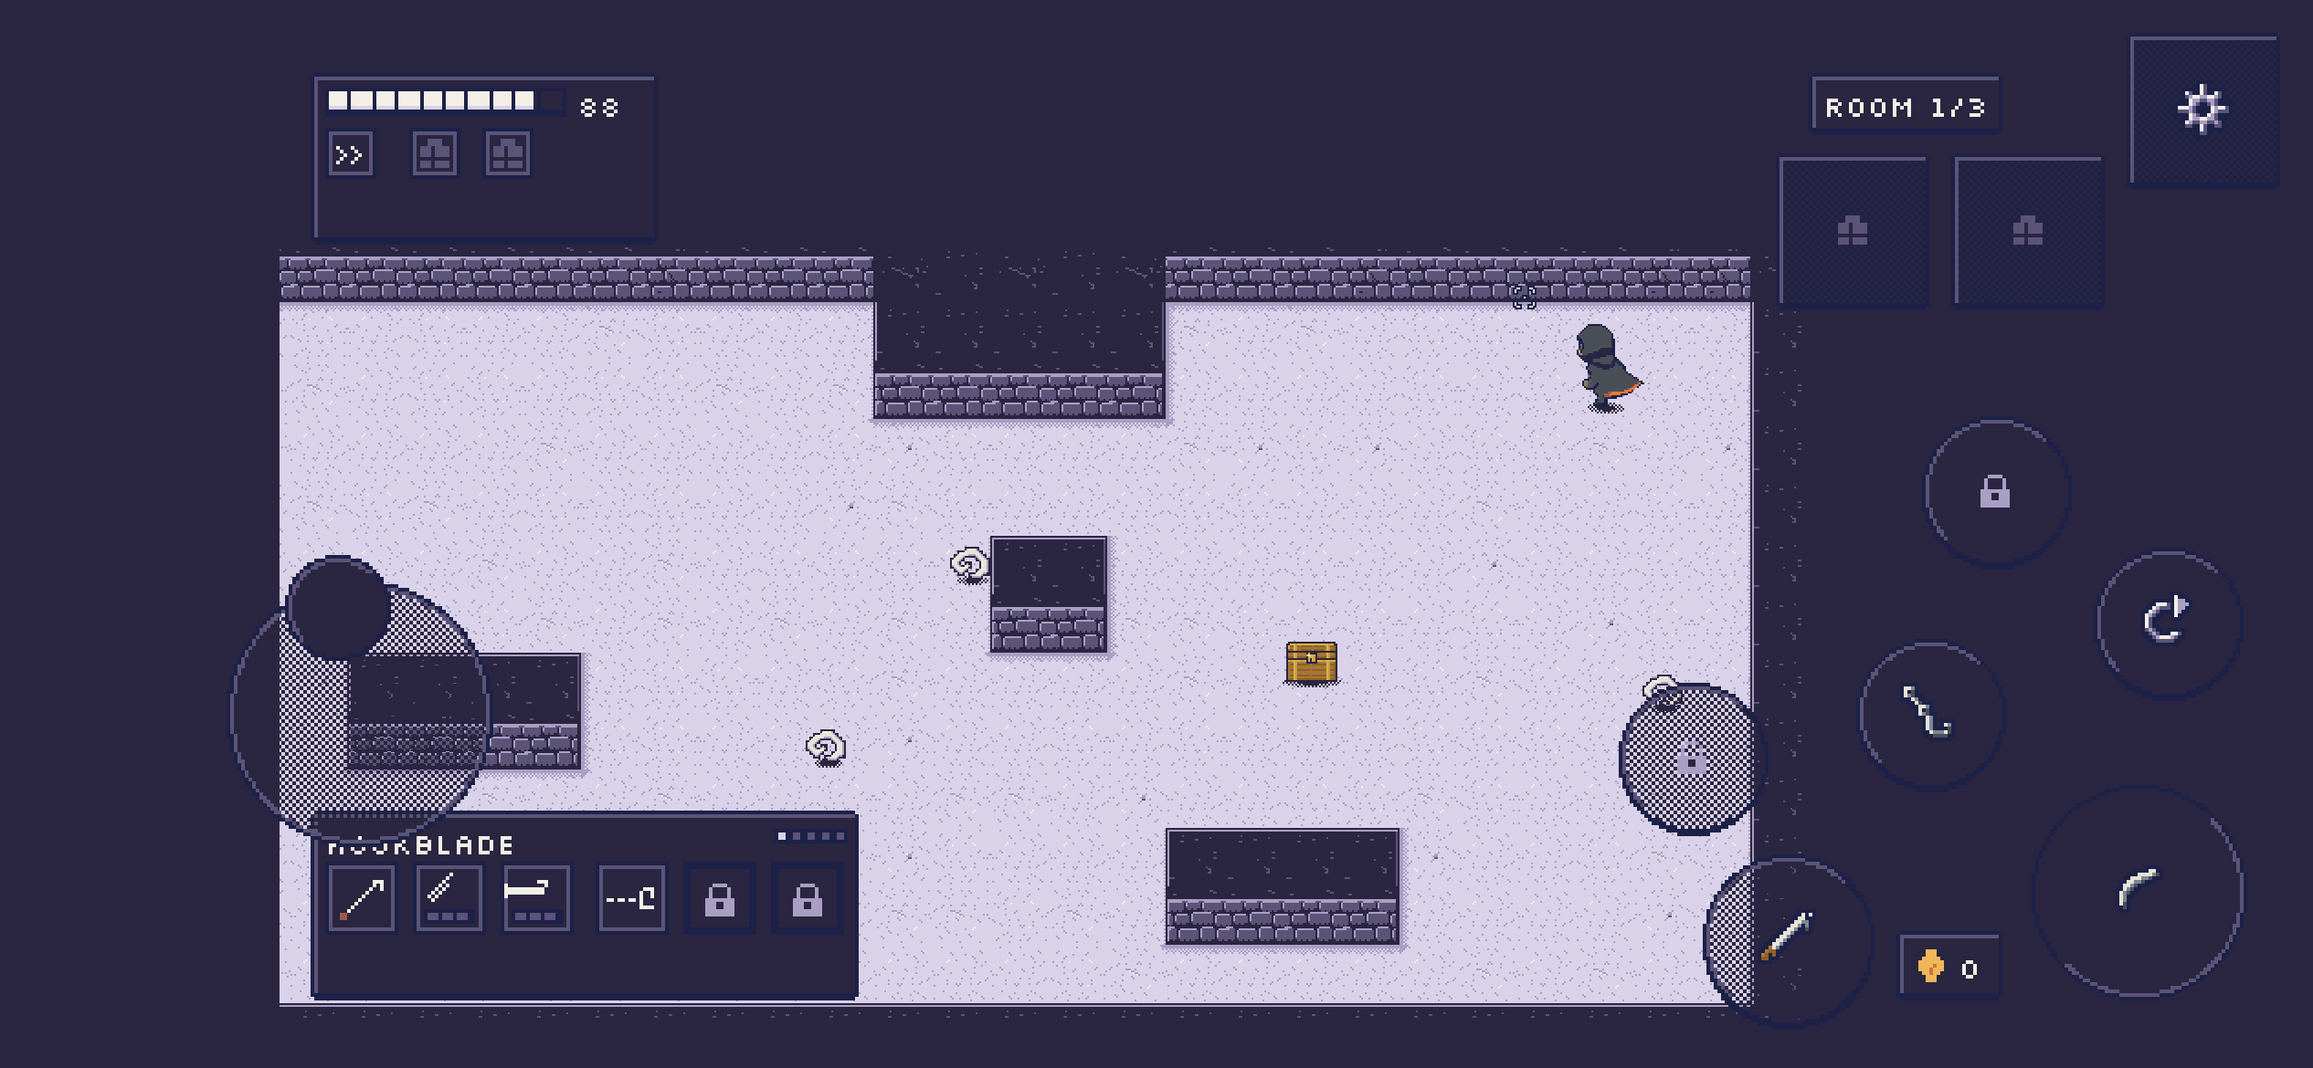
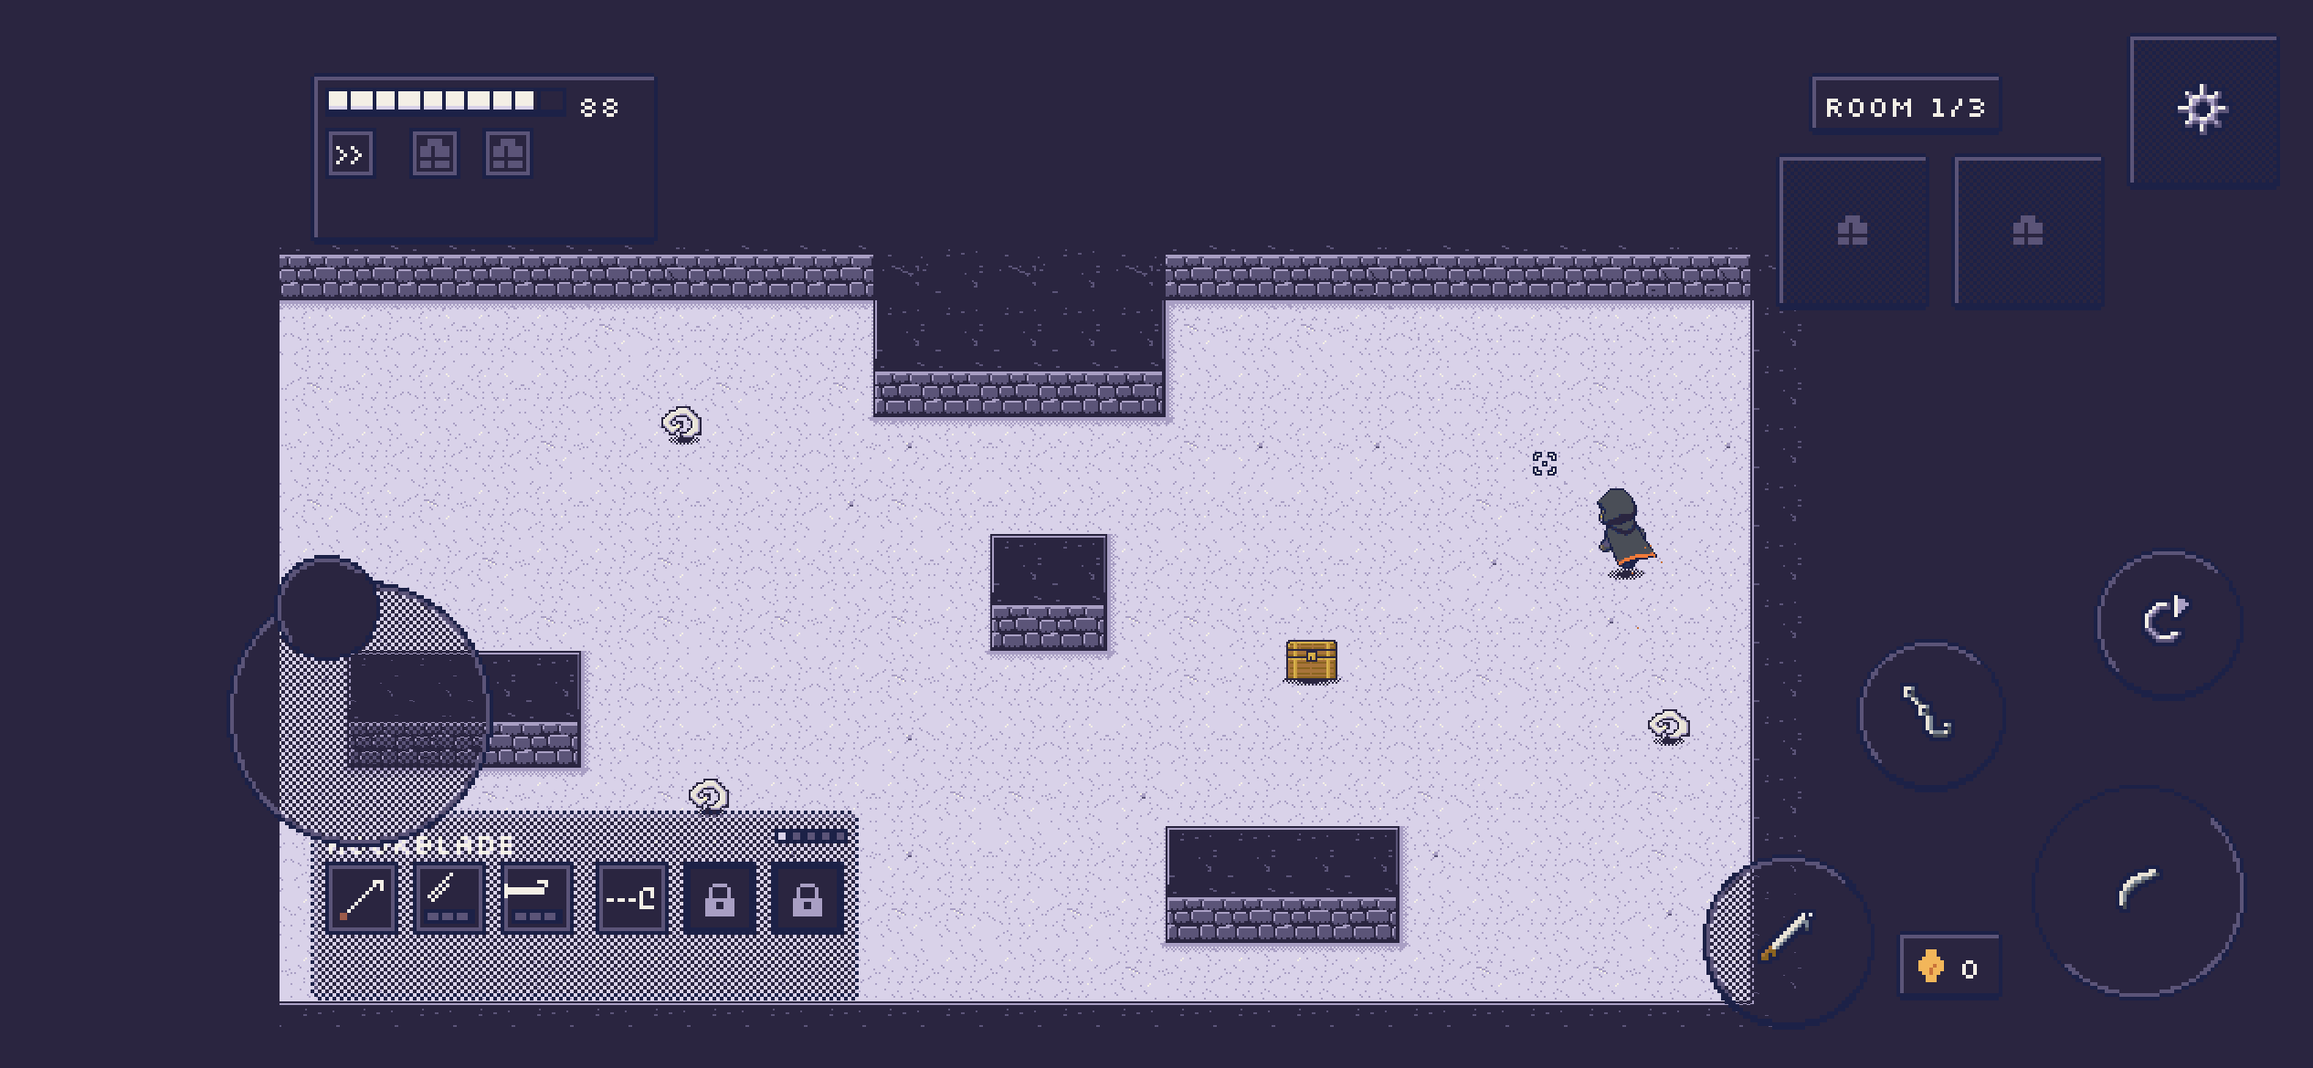
Touch: only unlocked abilities show, and the gear leaves a run on a second tap
GAME DESIGN's answers on #134 (2026-10-21):
- Locked ability slots never show on touch; the arc is the Haul alone in M2
  and grows as abilities unlock (touchLayout's `abilities` is now the list of
  ability controls to show; GameScene passes the weapon's unlocked slots).
- The gear in a run leaves only on a second tap within leaveConfirmMs (2000,
  controls.json touch): the first shows "Tap again to leave the run." under
  the gear (TapAgain, game/tapAgain.ts), and after the window it resets.

The screenshot run checks both (shot 22) and the run shots are retaken
without the locked discs.

Claude-Session: https://claude.ai/code/session_01AQ7MDAxUWeFxm5aoEn2ocb

Changed region(s): [[0.1248, 0.2154, 0.78, 0.9538], [0.8424, 0.4308, 0.8736, 0.4923]]

diff --git a/apps/client/src/ui/touchControls.ts b/apps/client/src/ui/touchControls.ts
@@ -1,15 +1,15 @@
 import type Phaser from 'phaser';
 import { deviceStore } from '../game/activeDevice.js';
 import { TouchInput, type TouchRelease } from '../game/touchInput.js';
-import { controlAt, touchLayout, touchScreen, type TouchControl, type TouchControlId, type TouchLayout, type TouchMode } from '../game/touchLayout.js';
+import { controlAt, touchLayout, touchScreen, type AbilityControl, type TouchControl, type TouchControlId, type TouchLayout, type TouchMode } from '../game/touchLayout.js';
 import type { Rect } from '../game/view.js';
 import { Palette } from '../palette.js';
 import { DEPTH } from '../render/depth.js';
 import { checker, circlePixels, discPixels, pixelAngle, type Px } from '../render/pixelShapes.js';
 import { plot } from '../render/pixels.js';
 import { ITEM_ICON_TEXTURE, TOUCH_GLYPH_TEXTURE } from '../render/sheets.js';
-import { label, place, type Text } from '../render/text.js';
-import { ditherRect, icon } from '../render/ui.js';
+import { body, label, place, type Text } from '../render/text.js';
+import { ditherRect, icon, panel } from '../render/ui.js';
 
 /**
  * The touch layer (M2 Task 10, docs/design/controls.md §6): the floating left
@@ -51,8 +51,8 @@ export interface TouchControlsOptions {
   uiZoom: () => number;
   /** The HUD's panels this frame (UI px): no control covers them. */
   avoid: () => readonly Rect[];
-  /** The run weapon's ability slots (up to three show). */
-  abilities?: number;
+  /** The ability buttons that show: the run weapon's unlocked slots (GAME DESIGN: locked ones never show on touch). */
+  abilities?: readonly AbilityControl[];
   /** Whether a control shows now (USE only while a prompt is up). */
   showing?: (id: TouchControlId) => boolean;
   /** Whether a touch on the world may anchor the stick now (not while a panel is open). */
@@ -118,6 +118,10 @@ export class TouchControls {
   private readonly g: Phaser.GameObjects.Graphics;
   private readonly glyphs = new Map<TouchControlId, Phaser.GameObjects.Image>();
   private readonly texts = new Map<TouchControlId, Text>();
+  /** A short line beside a control (the gear's "Tap again to leave the run."), or null. */
+  private note: { id: TouchControlId; text: string } | null = null;
+  private noteText: Text | null = null;
+  private readonly noteG: Phaser.GameObjects.Graphics;
   private layoutKey = '';
   private visible = false;
   private now = 0;
@@ -133,7 +137,8 @@ export class TouchControls {
   ) {
     this.input = new TouchInput(this.computeLayout());
     this.g = scene.add.graphics().setDepth(DEPTH.touch);
-    opts.layer.add(this.g);
+    this.noteG = scene.add.graphics().setDepth(DEPTH.touch);
+    opts.layer.add([this.g, this.noteG]);
     this.visible = deviceStore.get() === 'touch';
     this.offDevice = deviceStore.subscribe((d) => {
       if (d !== 'touch') this.input.cancelAll();
@@ -202,7 +207,7 @@ export class TouchControls {
 
   private computeLayout(): TouchLayout {
     const s = touchScreen(this.scene.scale.width, this.scene.scale.height, window.devicePixelRatio);
-    return touchLayout(s, { mode: this.opts.mode, abilities: this.opts.abilities ?? 0, avoid: this.opts.avoid() });
+    return touchLayout(s, { mode: this.opts.mode, abilities: this.opts.abilities ?? [], avoid: this.opts.avoid() });
   }
 
   /** The layout as drawn (playtests and screenshots read it). */
@@ -223,6 +228,8 @@ export class TouchControls {
     this.sceneHandlers.length = 0;
     this.input.cancelAll();
     this.g.destroy();
+    this.noteG.destroy();
+    this.noteText?.destroy();
     for (const i of this.glyphs.values()) i.destroy();
     for (const t of this.texts.values()) t.destroy();
   }
@@ -241,9 +248,36 @@ export class TouchControls {
     g.clear();
     for (const i of this.glyphs.values()) i.setVisible(false);
     for (const t of this.texts.values()) t.setVisible(false);
+    this.noteG.clear();
+    this.noteText?.setVisible(false);
     if (!this.visible) return;
     for (const c of this.input.layout.controls) if (this.showing(c.id)) this.drawControl(c);
     this.drawStick();
+    this.drawNote();
+  }
+
+  /** Shows a short line beside a control until it is cleared (null): the gear's tap-again line in a run. */
+  setNote(id: TouchControlId, text: string | null): void {
+    this.note = text === null ? null : { id, text };
+  }
+
+  /** The note on a plain panel under its control, right-aligned with it (clear of the HUD's top-right panels), kept on the screen. */
+  private drawNote(): void {
+    const n = this.note;
+    const c = n && this.input.layout.controls.find((x) => x.id === n.id);
+    if (!n || !c) return;
+    if (!this.noteText) {
+      this.noteText = body(this.scene, 0, 0, n.text, Palette.uiInk).setDepth(DEPTH.touch);
+      this.opts.layer.add(this.noteText);
+    }
+    const t = this.noteText;
+    if (t.text !== n.text) t.setText(n.text);
+    const w = Math.round(t.width) + 8;
+    const h = 14;
+    const x = Math.max(0, c.rect.x + c.rect.w - w);
+    const y = Math.min(this.input.layout.screen.h - h, c.rect.y + c.rect.h + 4);
+    panel(this.noteG, x, y, w, h, { plain: true });
+    place(t.setVisible(true), x + 4, y + 3);
   }
 
   private glyph(id: TouchControlId, texture: string, frame: string): Phaser.GameObjects.Image | null {

diff --git a/apps/client/src/scenes/GameScene.ts b/apps/client/src/scenes/GameScene.ts
@@ -19,7 +19,8 @@ import { preloadSpriteSheets, registerSpriteSheets } from '../render/spriteSheet
 import { blinkOut, place, preloadFonts, registerFonts, worldWord, type Text } from '../render/text.js';
 import { drawReticle, rad, WorldRenderer } from '../render/world.js';
 import { TouchControls, type TouchButtonState } from '../ui/touchControls.js';
-import type { TouchControlId } from '../game/touchLayout.js';
+import { ABILITY_CONTROLS, TOUCH, type TouchControlId } from '../game/touchLayout.js';
+import { LEAVE_RUN_AGAIN, TapAgain } from '../game/tapAgain.js';
 
 const END_DELAY_MS = 1900;
 /** The room banner's line, UI px below the top of the world view (M1's 84 of 270). */
@@ -72,6 +73,8 @@ export class GameScene extends Phaser.Scene {
   private rooms: string[] | undefined;
   /** The touch layer (M2 Task 10): the stick, LIGHT, HEAVY, DODGE, the Haul's arc, the item slots, USE and the gear. */
   touch!: TouchControls;
+  /** The gear in a run: leaves on a second tap within `leaveConfirmMs` (GAME DESIGN, 2026-10-21). */
+  private readonly leaveRun = new TapAgain(TOUCH.leaveConfirmMs);
   private endAt = -1;
   private camX = 0;
   private camY = 0;
@@ -137,7 +140,11 @@ export class GameScene extends Phaser.Scene {
       layer: this.hudLayer,
       uiZoom: () => this.uiFit.zU,
       avoid: () => Object.values(this.hud.panelRects()),
-      abilities: this.session.run.params.weapon.abilities.length,
+      // Only the unlocked abilities show on touch; the arc grows as they unlock (GAME DESIGN, 2026-10-21).
+      abilities: ABILITY_CONTROLS.filter((_, i) => {
+        const a = this.session.run.params.weapon.abilities[i];
+        return a !== undefined && !a.locked;
+      }),
       // USE only while a prompt is up (Calm, a thing in reach).
       showing: (id) => id !== 'use' || this.prompt.container.visible,
       // A tap on a thing is Interact; on the ground of a run's room, nothing (tap to walk is the holding's).
@@ -145,8 +152,9 @@ export class GameScene extends Phaser.Scene {
         this.tapAt(x, y);
       },
       onControl: (id) => {
-        // The gear is the menu: a run has no pause yet, so it leaves for the start screen.
-        if (id === 'gear') this.scene.start('start');
+        // The gear is the menu: a run has no pause yet, so it leaves for the start screen, on a second tap within
+        // `leaveConfirmMs` (GAME DESIGN, 2026-10-21: a stray thumb never ends a run).
+        if (id === 'gear' && this.leaveRun.tap(this.time.now)) this.scene.start('start');
       },
       state: (id) => this.touchState(id),
     });
@@ -497,6 +505,7 @@ export class GameScene extends Phaser.Scene {
     this.updatePrompt();
     this.drawCursor();
     this.hud.draw(this.session.run, delta, this.bodyRects());
+    this.touch.setNote('gear', this.leaveRun.armed(this.time.now) ? LEAVE_RUN_AGAIN : null);
     this.touch.update(delta);
 
     if (this.bannerLife > 0) {

diff --git a/apps/client/src/game/touchLayout.ts b/apps/client/src/game/touchLayout.ts
@@ -29,6 +29,7 @@ export type TouchControlId = (typeof TOUCH_CONTROL_IDS)[number];
 
 /** The ability arc's buttons, in slot order. */
 export const ABILITY_CONTROLS = ['ability1', 'ability2', 'ability3'] as const;
+export type AbilityControl = (typeof ABILITY_CONTROLS)[number];
 
 /** Where the layer is: a run (the attack cluster, the item slots, the gear) or the holding (USE alone, the gear). */
 export type TouchMode = 'run' | 'holding';
@@ -66,8 +67,8 @@ export interface TouchLayout {
 
 export interface TouchLayoutOptions {
   mode: TouchMode;
-  /** How many ability slots the run's weapon has (the arc shows up to three). */
-  abilities?: number;
+  /** The ability buttons that show: the unlocked slots only (GAME DESIGN, 2026-10-21: the arc grows as abilities unlock). */
+  abilities?: readonly AbilityControl[];
   /** Rectangles no control may cover: the HUD's panels (UI px). */
   avoid?: readonly Rect[];
 }
@@ -84,7 +85,7 @@ export function controlPx(sizeCss: number, cssPerUi: number, minCss: number = TO
 }
 
 /** The controls a mode shows, with the data spec each is placed by. */
-function controlsFor(mode: TouchMode, abilities: number, data: TouchData): [TouchControlId, TouchButtonSpec][] {
+function controlsFor(mode: TouchMode, abilities: readonly AbilityControl[], data: TouchData): [TouchControlId, TouchButtonSpec][] {
   const b = data.buttons;
   if (mode === 'holding')
     return [
@@ -99,7 +100,7 @@ function controlsFor(mode: TouchMode, abilities: number, data: TouchData): [Touc
     ['light', b.light],
     ['heavy', b.heavy],
     ['dodge', b.dodge],
-    ...ABILITY_CONTROLS.slice(0, Math.max(0, Math.min(3, abilities))).map((id): [TouchControlId, TouchButtonSpec] => [id, b[id]]),
+    ...ABILITY_CONTROLS.filter((id) => abilities.includes(id)).map((id): [TouchControlId, TouchButtonSpec] => [id, b[id]]),
     ['use', b.use],
   ];
 }
@@ -145,7 +146,7 @@ export function touchLayout(screen: TouchScreen, opts: TouchLayoutOptions, data:
   const reach = offsetsWithin(Math.ceil(Math.max(screen.w, screen.h) / 2));
   // How far a top corner's first control (the gear) had to move: the rest of its row start from there.
   const shift = new Map<string, { x: number; y: number }>();
-  for (const [id, spec] of controlsFor(opts.mode, opts.abilities ?? 0, data)) {
+  for (const [id, spec] of controlsFor(opts.mode, opts.abilities ?? [], data)) {
     const size = controlPx(spec.size, z, data.buttonMinCssPx);
     const right = spec.corner === 'br' || spec.corner === 'tr';
     const bottom = spec.corner === 'br' || spec.corner === 'bl';

diff --git a/apps/client/src/game/touchLayout.test.ts b/apps/client/src/game/touchLayout.test.ts
@@ -4,6 +4,7 @@ import { describe, expect, it } from 'vitest';
 import { hudRects, toastTextWidth } from './holdingView.js';
 import { runHudRects } from './runHud.js';
 import {
+  ABILITY_CONTROLS,
   controlAt,
   controlPx,
   isTap,
@@ -54,7 +55,7 @@ function setup(w: number, h: number, dpr: number) {
 
 function layoutFor(mode: TouchMode, w: number, h: number, dpr: number): { layout: TouchLayout; avoid: Rect[] } {
   const { screen, avoid } = setup(w, h, dpr);
-  return { layout: touchLayout(screen, { mode, abilities: 3, avoid: avoid[mode] }), avoid: avoid[mode] };
+  return { layout: touchLayout(screen, { mode, abilities: ABILITY_CONTROLS, avoid: avoid[mode] }), avoid: avoid[mode] };
 }
 
 describe('the touch block of controls.json', () => {
@@ -130,9 +131,21 @@ describe('the sizes ART draws for (UI px on the four test screens)', () => {
   });
 });
 
+describe('the ability arc on touch (GAME DESIGN, 2026-10-21)', () => {
+  it('shows only the unlocked abilities: the Haul alone in M2, growing as more unlock', () => {
+    const { screen } = setup(844, 390, 3);
+    const ids = (abilities: (typeof ABILITY_CONTROLS)[number][]): string[] =>
+      touchLayout(screen, { mode: 'run', abilities }).controls.map((c) => c.id).filter((id) => id.startsWith('ability'));
+    expect(ids(['ability1'])).toEqual(['ability1']);
+    expect(ids([])).toEqual([]);
+    expect(ids(['ability1', 'ability2'])).toEqual(['ability1', 'ability2']);
+    expect(ids(['ability1', 'ability3'])).toEqual(['ability1', 'ability3']);
+  });
+});
+
 describe('the zone of a touch', () => {
   const { screen } = setup(844, 390, 3);
-  const layout = touchLayout(screen, { mode: 'run', abilities: 3 });
+  const layout = touchLayout(screen, { mode: 'run', abilities: ABILITY_CONTROLS });
   const light = layout.controls.find((c) => c.id === 'light');
 
   it('is the control it lands on, else a HUD zone, else the stick on the left half and a tap on the right', () => {

diff --git a/apps/client/src/game/tapAgain.ts b/apps/client/src/game/tapAgain.ts
@@ -1,0 +1,35 @@
+/**
+ * A control that acts only on a second tap within a window (GAME DESIGN,
+ * 2026-10-21): the gear in a run, which leaves the run, so a stray thumb
+ * never ends one. The first tap arms it and shows `LEAVE_RUN_AGAIN`; a second
+ * tap within `windowMs` confirms; after that the gear resets. Pure, so it is
+ * tested in node.
+ */
+
+/** The line shown while the gear in a run is armed (GAME DESIGN's, final: it names the run, so nobody reads it as quitting the game). */
+export const LEAVE_RUN_AGAIN = 'Tap again to leave the run.';
+
+export class TapAgain {
+  private armedAt = Number.NEGATIVE_INFINITY;
+
+  constructor(readonly windowMs: number) {}
+
+  /** A tap at `now` (ms): true when it confirms (a second tap within the window), else it arms. */
+  tap(now: number): boolean {
+    if (this.armed(now)) {
+      this.reset();
+      return true;
+    }
+    this.armedAt = now;
+    return false;
+  }
+
+  /** Whether a first tap is waiting for its second at `now`. */
+  armed(now: number): boolean {
+    return now - this.armedAt <= this.windowMs;
+  }
+
+  reset(): void {
+    this.armedAt = Number.NEGATIVE_INFINITY;
+  }
+}

diff --git a/apps/client/src/game/tapAgain.test.ts b/apps/client/src/game/tapAgain.test.ts
@@ -1,0 +1,22 @@
+import { describe, expect, it } from 'vitest';
+import { LEAVE_RUN_AGAIN, TapAgain } from './tapAgain.js';
+import { TOUCH } from './touchLayout.js';
+
+describe("the gear in a run: tap again to leave (GAME DESIGN, 2026-10-21)", () => {
+  it('leaves only on a second tap within the window, then resets', () => {
+    expect(TOUCH.leaveConfirmMs).toBe(2000);
+    expect(LEAVE_RUN_AGAIN).toBe('Tap again to leave the run.');
+    const gear = new TapAgain(2000);
+    expect(gear.armed(0)).toBe(false);
+    expect(gear.tap(1000)).toBe(false);
+    expect(gear.armed(2999)).toBe(true);
+    expect(gear.tap(3000)).toBe(true);
+    // Confirmed: the next tap arms again.
+    expect(gear.armed(3001)).toBe(false);
+    expect(gear.tap(3100)).toBe(false);
+    // Too late: the second tap only arms it again.
+    expect(gear.armed(5101)).toBe(false);
+    expect(gear.tap(5200)).toBe(false);
+    expect(gear.tap(5300)).toBe(true);
+  });
+});

diff --git a/apps/client/src/game/touchInput.test.ts b/apps/client/src/game/touchInput.test.ts
@@ -1,9 +1,9 @@
 import { describe, expect, it } from 'vitest';
 import { TouchInput, touchSample } from './touchInput.js';
-import { touchLayout, type TouchControl, type TouchLayout } from './touchLayout.js';
+import { ABILITY_CONTROLS, touchLayout, type TouchControl, type TouchLayout } from './touchLayout.js';
 
 /** The iPhone's UI grid (844 × 390 CSS @ 3: 633 × 292 UI px, 4/3 CSS px per UI px), the run's controls with no HUD in the way. */
-const layout: TouchLayout = touchLayout({ w: 633, h: 292, cssPerUi: 4 / 3 }, { mode: 'run', abilities: 3 });
+const layout: TouchLayout = touchLayout({ w: 633, h: 292, cssPerUi: 4 / 3 }, { mode: 'run', abilities: ABILITY_CONTROLS });
 const at = (id: string): TouchControl => {
   const c = layout.controls.find((k) => k.id === id);
   if (!c) throw new Error(id);

diff --git a/docs/design/controls.md b/docs/design/controls.md
@@ -197,7 +197,8 @@ change with the screen), converted to whole UI px at layout (`controlPx`): every
 its screen corner (`buttons`). The top right first (the gear, then the item slots in a row), then the cluster from
 LIGHT out: a control whose place is off the screen, over a HUD panel, over the top centre band (`topCentreClear`)
 or over a control placed before it (`gapCssPx` apart) moves to the nearest free place inwards from its corner. The
-controls don't widen the camera's safe margins. In a run: LIGHT, HEAVY, DODGE, the ability arc, USE (above DODGE,
+controls don't widen the camera's safe margins. In a run: LIGHT, HEAVY, DODGE, the ability arc (the unlocked abilities only: locked slots never show on touch, so
+M2's arc is the Haul alone and it grows as abilities unlock; GAME DESIGN, 2026-10-21), USE (above DODGE,
 only while a prompt is up), the item slots and the gear; on the holding: USE alone (`useAlone`, over the pack
 button) and the gear. ART's look (2026-10-20): the plain HUD panel as discs (the attacks, DODGE, the abilities,
 USE) and chamfered squares (the gear, the item slots), a 50 % checker dither of ui-panel for every fill (every
@@ -219,7 +220,10 @@ continue" on the results screen (GAME DESIGN's), "tap  <  >  to switch" on the c
 "tap move · hold one · drag between panes · tap a tab". A screen whose only way back was a key gets a BACK button
 on touch (the inventory, the controls screen: `touchBackButton`, render/menus.ts). The controls screen has a third
 column, Touch, from the table above (the button's glyph, or a word). In a run the gear leaves for the start screen
-(a run has no pause yet).
+(a run has no pause yet), but only on a second tap within `touch.leaveConfirmMs` (2000): the first shows "Tap again
+to leave the run." beside it, and after the window the gear resets (GAME DESIGN, 2026-10-21; `TapAgain`,
+`game/tapAgain.ts`). Once deaths cost the pack, leaving a run will count as a death (GAME DESIGN's note; nothing in
+M2).
 
 **The page** (`apps/client/index.html`): no browser gestures over the game (`touch-action: none`,
 `overscroll-behavior: none`, no long-press callout or text selection, no tap flash), the form inputs opting back
